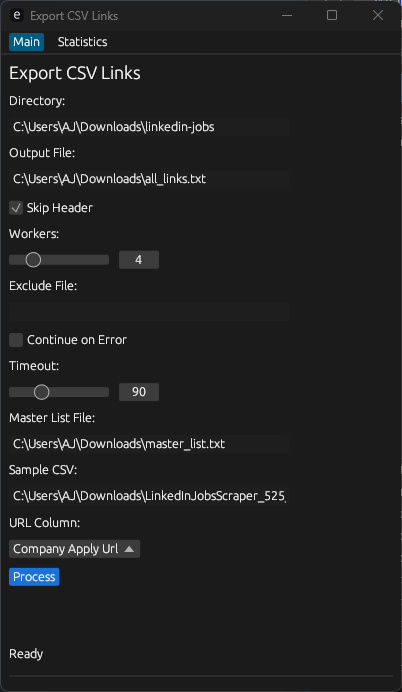
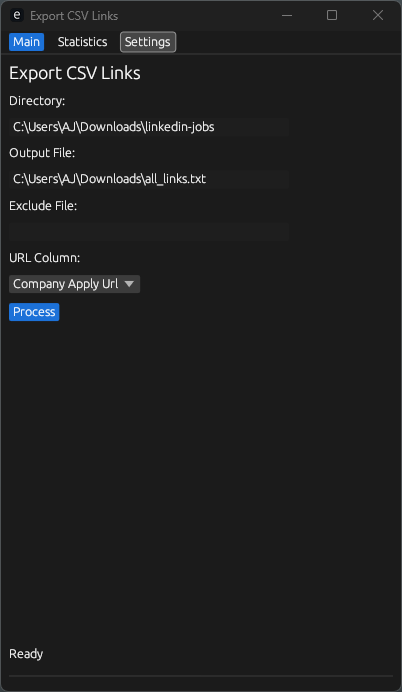
updated readme

diff --git a/README.md b/README.md
@@ -44,19 +44,26 @@ A GUI application for extracting URLs from CSV files with master list management
 
 ## Screenshots
 
-### Main Interface (2024-02-08)
+### Main Interface (2024-02-20)
 [Main Interface]
 
 ![alt text](main-interface.png)
 
 *Dark theme interface with URL processing controls*
 
-### Statistics Dashboard (2024-02-08)
+### Statistics Dashboard (2024-02-20)
 [Statistics Dashboard]
 
 ![alt text](statistics-dashboard.png)
 
 *Real-time processing statistics and history*
+
+### Settings Interface (2024-02-20)
+[Settings Interface]
+
+![alt text](settings-interface.png)
+
+*Configure application settings*
 
 ## Usage
 
